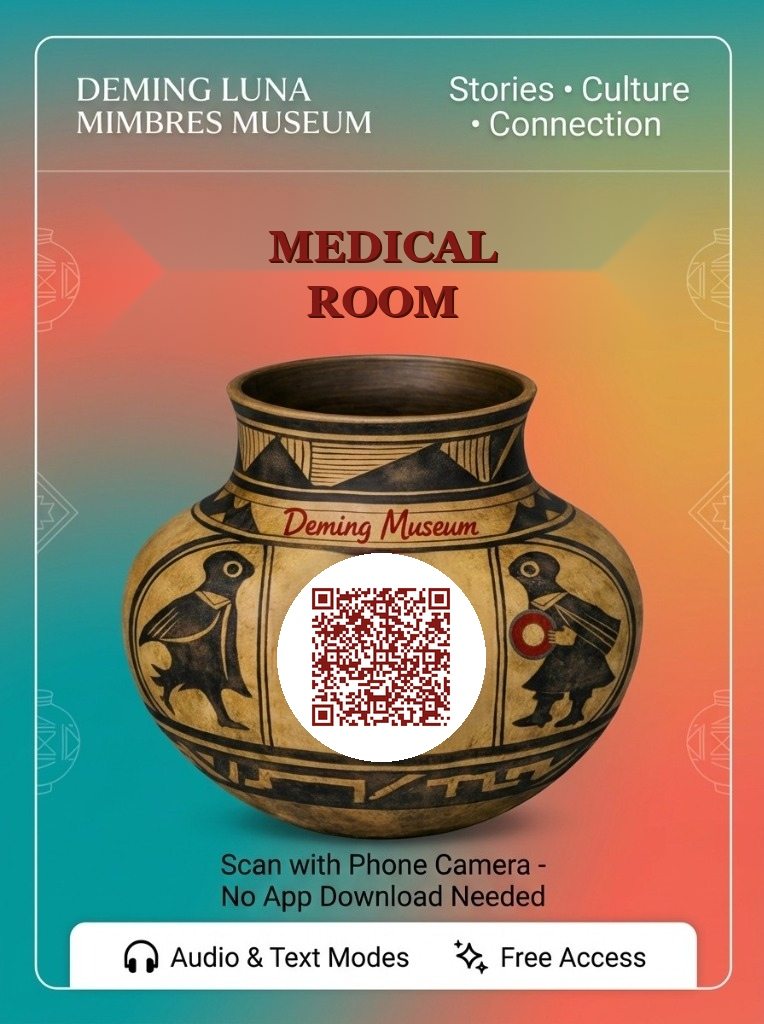
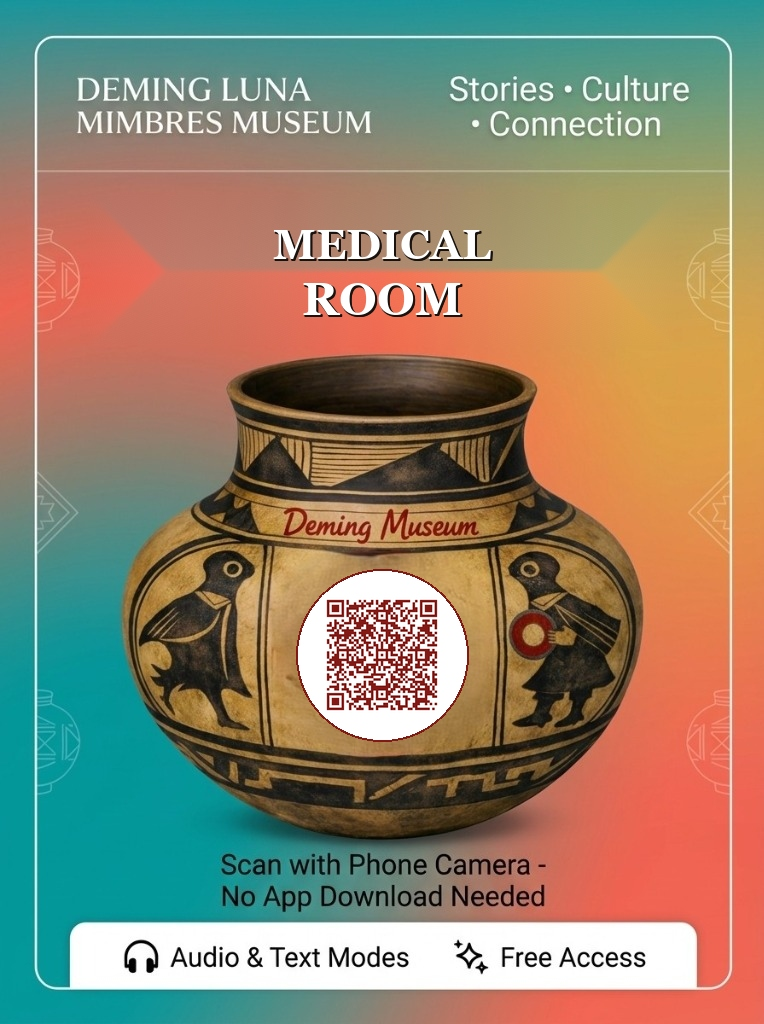
Update Medical Room placard with white lettering matching Transportation Annex style

Changed region(s): [[0.3613, 0.5312, 0.6623, 0.75], [0.3613, 0.2188, 0.6623, 0.3125]]

diff --git a/scripts/render_medical_room_poster.py b/scripts/render_medical_room_poster.py
@@ -1,21 +1,16 @@
-#!/usr/bin/env python3
 import os
+import shutil
 import cv2
 import numpy as np
 from PIL import Image, ImageDraw, ImageFont
 import qrcode
-import shutil
 
-BASE_URL = "https://amandahervol-alt.github.io/deming-museum-tour"
+# 1. Configuration
 ROOM_ID = 8
-TARGET_URL = f"{BASE_URL}/?room={ROOM_ID}"
+TARGET_URL = f"https://amandahervol-alt.github.io/deming-museum-tour/?room={ROOM_ID}"
 
-# 1. Base template
-template_path = r"C:\Users\manet\.gemini\antigravity-ide\brain\6f34c999-2401-441a-aae3-0a0320e6d5be\.user_uploaded\media_1789575966257.jpg"
-if not os.path.exists(template_path):
-    # Fallback to local copy
-    template_path = "qr_codes/western_area_poster_placard.jpg"
-
+# 2. Template
+template_path = r"C:\Users\manet\.gemini\antigravity-ide\brain\6f34c999-2401-441a-aae3-0a0320e6d5be\.user_uploaded\media_1789917482175.jpg"
 cv_img = cv2.imread(template_path)
 H, W, _ = cv_img.shape
 
@@ -27,8 +22,10 @@ inpainted = cv2.inpaint(cv_img, mask, inpaintRadius=7, flags=cv2.INPAINT_TELEA)
 result = Image.fromarray(cv2.cvtColor(inpainted, cv2.COLOR_BGR2RGBA))
 draw = ImageDraw.Draw(result)
 
-# 2. Draw 'MEDICAL ROOM'
-font_title = ImageFont.truetype(r"C:\Windows\Fonts\georgiab.ttf", 44)
+# 3. White Lettering with dark drop shadow (Same font, styling, and positioning as Transportation Annex)
+font_title1 = ImageFont.truetype(r"C:\Windows\Fonts\georgiab.ttf", 42)
+font_title2 = ImageFont.truetype(r"C:\Windows\Fonts\georgiab.ttf", 46)
+
 title_line1 = "MEDICAL"
 title_line2 = "ROOM"
 
@@ -40,50 +37,49 @@ def get_text_center(text, font, y_center):
     y = y_center - (th / 2)
     return x, y
 
-x1, y1 = get_text_center(title_line1, font_title, 235)
-x2, y2 = get_text_center(title_line2, font_title, 290)
+x1, y1 = get_text_center(title_line1, font_title1, 235)
+x2, y2 = get_text_center(title_line2, font_title2, 288)
+
+shadow_color = (25, 18, 15, 230)
+white_color = (255, 255, 255, 255)
 
 # Drop shadow
-shadow_color = (74, 16, 5, 200)
-main_color = (130, 25, 21, 255)
+for ox, oy in [(2, 2), (1, 2), (2, 1), (1, 1)]:
+    draw.text((x1 + ox, y1 + oy), title_line1, font=font_title1, fill=shadow_color)
+    draw.text((x2 + ox, y2 + oy), title_line2, font=font_title2, fill=shadow_color)
 
-for offset_x, offset_y in [(2, 2), (1, 1)]:
-    draw.text((x1 + offset_x, y1 + offset_y), title_line1, font=font_title, fill=shadow_color)
-    draw.text((x2 + offset_x, y2 + offset_y), title_line2, font=font_title, fill=shadow_color)
+# Pure white text
+draw.text((x1, y1), title_line1, font=font_title1, fill=white_color)
+draw.text((x2, y2), title_line2, font=font_title2, fill=white_color)
 
-draw.text((x1, y1), title_line1, font=font_title, fill=main_color)
-draw.text((x2, y2), title_line2, font=font_title, fill=main_color)
+# 4. Generate Room 8 QR code in center between birds
+cx = 382
+cy = 655
+r = 86
+qr_size = 120
 
-# 3. Generate QR code for Room 8
 qr = qrcode.QRCode(
     version=1,
     error_correction=qrcode.constants.ERROR_CORRECT_H,
-    box_size=10,
-    border=1,
+    box_size=12,
+    border=2,
 )
 qr.add_data(TARGET_URL)
 qr.make(fit=True)
-qr_img = qr.make_image(fill_color="#821915", back_color="#FFFFFF").convert("RGBA")
 
-# Center circle in the pot
-cx, cy = 381, 657
-r = 104
+img_qr = qr.make_image(fill_color="#821915", back_color="#FFFFFF").convert("RGBA")
+qr_res = img_qr.resize((qr_size, qr_size), Image.Resampling.LANCZOS)
 
-# Draw clean white circle
-draw.ellipse((cx - r, cy - r, cx + r, cy + r), fill=(255, 255, 255, 255))
+# White round medallion with fine terracotta rim
+TERRACOTTA = (130, 25, 21, 255)
+draw.ellipse((cx - r, cy - r, cx + r, cy + r), fill=TERRACOTTA)
+draw.ellipse((cx - (r-2), cy - (r-2), cx + (r-2), cy + (r-2)), fill=(255, 255, 255, 255))
+result.paste(qr_res, (cx - qr_size//2, cy - qr_size//2), qr_res)
 
-# Resize QR and paste in center of the circle
-qr_size = 144
-qr_resized = qr_img.resize((qr_size, qr_size), Image.Resampling.LANCZOS)
-qx = cx - (qr_size // 2)
-qy = cy - (qr_size // 2)
-
-result.paste(qr_resized, (qx, qy), qr_resized)
-
-# Save output
-rgb_result = result.convert("RGB")
+# 5. Save poster files
 out_jpg = "qr_codes/medical_room_poster_placard.jpg"
 out_png = "qr_codes/medical_room_poster_placard.png"
+rgb_result = result.convert("RGB")
 rgb_result.save(out_jpg, quality=98)
 result.save(out_png)
 
@@ -92,4 +88,13 @@ artifact_dir = r"C:\Users\manet\.gemini\antigravity-ide\brain\6f34c999-2401-441a
 artifact_jpg = os.path.join(artifact_dir, "medical_room_poster_placard.jpg")
 rgb_result.save(artifact_jpg, quality=98)
 
-print(f"Successfully generated {out_jpg} and {artifact_jpg}")
+# Backup repo
+backup_dir = r"C:\Users\manet\.gemini\antigravity\scratch\deming-museum-ai-tour\qr_codes"
+if os.path.exists(backup_dir):
+    rgb_result.save(os.path.join(backup_dir, "medical_room_poster_placard.jpg"), quality=98)
+
+# Verify OpenCV scannability
+detector = cv2.QRCodeDetector()
+mat = cv2.imread(out_jpg)
+val, pts, _ = detector.detectAndDecode(mat)
+print(f"Medical Room Poster: Scannable? -> {bool(val)} | Decoded: '{val}'")
